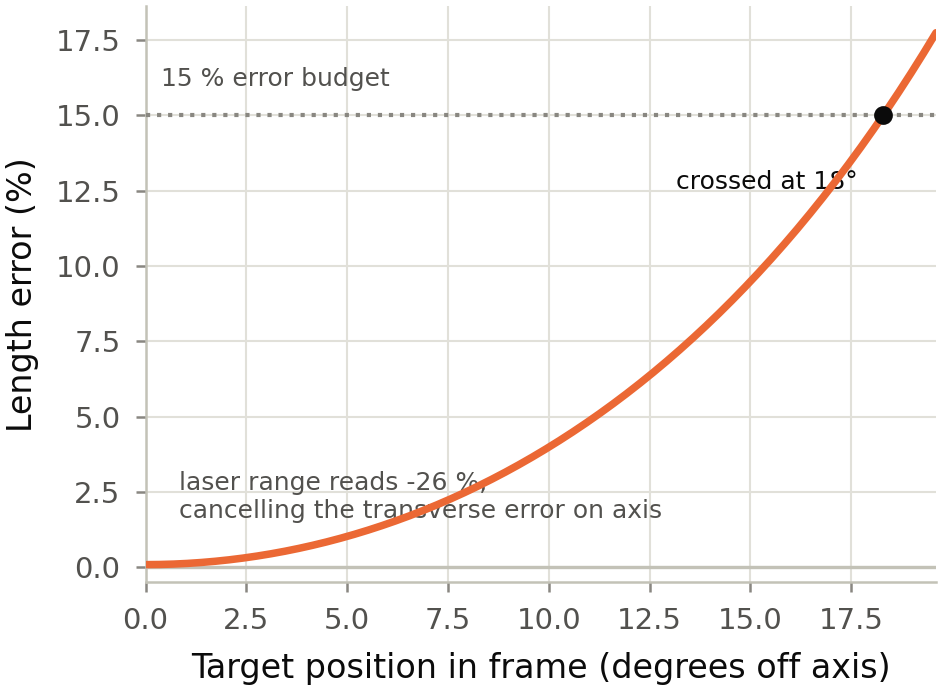
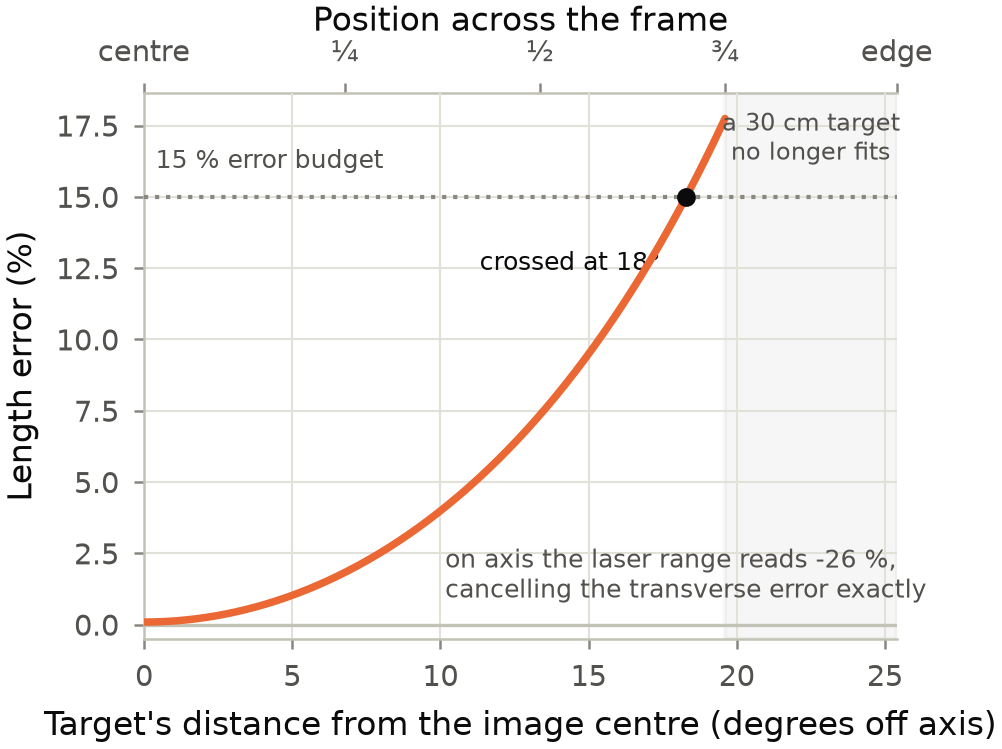
Figure 9: say what "degrees off axis" means
Chris asked what the abscissa meant, which is the answer: it was not readable.

It is the target's POSITION IN THE PICTURE -- the angle at the camera between
the optical axis and the target's centre -- and not its pose. Section 4.4's
figure is also in degrees and means the opposite thing, the fish's angle to the
image plane, and the two sections sit next to each other. They are also
physically independent: a fish held perfectly broadside in the corner of the
frame has 0 deg of pose and 20 deg of frame position, and an uncorrected port
would read it +17.7 % long while section 4.4's curve says it should read zero.

  - the bottom axis is relabelled "Target's distance from the image centre"
  - a second axis on top says the same thing in picture terms: centre, 1/4,
    1/2, 3/4, edge
  - the x range now runs to the frame edge at 25.4 deg with the last stretch
    shaded, because the curve stops at 19.6 deg only because a 30 cm target
    stops fitting -- the frame goes further, so the plotted maximum is not the
    worst the port can do, and the old axis quietly implied it was

`flat_port_cost` returns `half_frame_m` and `depth_m` to drive that, pinned by
a test, since without the frame's own half-width nobody downstream can tell a
position axis from a pose axis.

Also fixed two annotations the curve ran straight through -- the range callout
and "crossed at 18 deg" -- which I noticed when we first read this figure and
[…]

diff --git a/fishsense_imwut/pubfig.py b/fishsense_imwut/pubfig.py
@@ -917,7 +917,9 @@ def fig_flat_port_cost(
     length_pct_error: Sequence[float],
     range_pct_error: float | None = None,
     budget_pct: float = 15.0,
-    figsize: tuple[float, float] = (COL_WIDTH, 2.5),
+    half_frame_m: float | None = None,
+    depth_m: float | None = None,
+    figsize: tuple[float, float] = (COL_WIDTH, 2.7),
 ) -> plt.Figure:
     """Length error against field position with no refraction correction.
 
@@ -930,6 +932,14 @@ def fig_flat_port_cost(
     be averaged away and why it is easy to miss on axis.
 
     `range_pct_error` annotates the laser-range error behind the cancellation.
+
+    **The x axis is WHERE IN THE PICTURE the target sits, not how it is posed.**
+    Section 4.4's figure is also in degrees and means the opposite thing -- the
+    fish's angle to the image plane -- and the two are independent: a fish held
+    perfectly broadside in the corner of the frame has 0 deg of pose and 20 deg
+    of frame position, and an uncorrected port would read it +17.7 % long. Pass
+    `half_frame_m` and `depth_m` (both returned by `refraction.flat_port_cost`)
+    to get the second axis that says this in picture terms, centre to edge.
     """
     x = np.asarray(field_angle_deg, dtype=float)
     y = np.asarray(length_pct_error, dtype=float)
@@ -960,16 +970,44 @@ def fig_flat_port_cost(
             )
 
     if range_pct_error is not None:
+        # in the clear block BELOW the curve on the right; the curve sweeps the
+        # diagonal, so the two free corners are upper-left and lower-right and
+        # the budget callouts already own the first
         ax.annotate(
-            f"laser range reads {range_pct_error:+.0f} %,\n"
-            "cancelling the transverse error on axis",
-            xy=(x[0], y[0]), xytext=(8, 10), textcoords="offset points",
+            f"on axis the laser range reads {range_pct_error:+.0f} %,\n"
+            "cancelling the transverse error exactly",
+            xy=(0.40, 0.06), xycoords="axes fraction",
             fontsize=6, color=INK_SECONDARY, ha="left", va="bottom",
         )
 
-    ax.set_xlabel("Target position in frame (degrees off axis)")
+    ax.set_xlabel("Target's distance from the image centre (degrees off axis)")
     ax.set_ylabel("Length error (%)")
-    ax.set_xlim(x.min(), x.max())
+
+    if half_frame_m is not None and depth_m is not None:
+        edge_deg = float(np.degrees(np.arctan(half_frame_m / depth_m)))
+        # show the whole half-frame, so the reader can see the plotted range
+        # stops short of the edge -- and why
+        ax.set_xlim(x.min(), edge_deg)
+        ax.axvspan(x.max(), edge_deg, color=INK_MUTED, alpha=0.07, zorder=0)
+        ax.annotate("a 30 cm target\nno longer fits",
+                    xy=(0.5 * (x.max() + edge_deg), ax.get_ylim()[1]),
+                    xytext=(0, -4), textcoords="offset points", fontsize=5.8,
+                    color=INK_SECONDARY, ha="center", va="top", zorder=5)
+
+        def _to_frac(deg):
+            return depth_m * np.tan(np.radians(deg)) / half_frame_m
+
+        def _to_deg(frac):
+            return np.degrees(np.arctan(np.asarray(frac) * half_frame_m / depth_m))
+
+        top = ax.secondary_xaxis("top", functions=(_to_frac, _to_deg))
+        top.set_xticks([0.0, 0.25, 0.5, 0.75, 1.0])
+        top.set_xticklabels(["centre", "\u00bc", "\u00bd", "\u00be", "edge"])
+        top.set_xlabel("Position across the frame", labelpad=2)
+        top.tick_params(length=2.5, width=0.6)
+    else:
+        ax.set_xlim(x.min(), x.max())
+
     ax.set_ylim(bottom=min(0.0, float(np.min(y))) - 0.5)
     ax.margins(x=0)
     fig.tight_layout()

diff --git a/tests/test_refraction.py b/tests/test_refraction.py
@@ -463,3 +463,30 @@ def test_two_pane_stack_does_not_move_the_headline():
     assert max(edges) == pytest.approx(17.7, abs=0.1)
     assert min(crossings) == pytest.approx(18.3, abs=0.1)
     assert max(crossings) == pytest.approx(18.6, abs=0.1)
+
+
+def test_flat_port_cost_reports_the_frame_it_is_measured_against():
+    """The x axis of Figure 9 is a position in the picture, not a pose, and
+    without the frame's own half-width nobody can tell which.
+
+    Section 4.4's figure is also in degrees and means the fish's angle to the
+    image plane -- the opposite quantity. These two keys are what let the figure
+    carry a second axis reading centre-to-edge, so they are pinned rather than
+    left as an incidental part of the return value.
+    """
+    r = flat_port_cost()
+    assert r["depth_m"] == pytest.approx(2.0)
+    assert r["half_frame_m"] == pytest.approx(0.950, abs=0.005)
+
+    edge_deg = np.degrees(np.arctan(r["half_frame_m"] / r["depth_m"]))
+    assert edge_deg == pytest.approx(25.4, abs=0.1)
+
+    # the plotted span stops short of the frame edge: past three quarters of the
+    # half-width a 300 mm target no longer fits, so the curve is not the worst case
+    assert r["field_angle_deg"][-1] == pytest.approx(19.6, abs=0.1)
+    assert r["field_angle_deg"][-1] < edge_deg
+
+    # and the axis really is a position: its last point is MAX_FRAME_FRACTION
+    # of the half-width, in metres, not an angle of incidence
+    offset = r["depth_m"] * np.tan(np.radians(r["field_angle_deg"][-1]))
+    assert offset / r["half_frame_m"] == pytest.approx(0.75, abs=0.01)

diff --git a/fishsense_imwut/refraction.py b/fishsense_imwut/refraction.py
@@ -363,4 +363,11 @@ def flat_port_cost(
         length_pct_error=100 * (measured - fish_length_m) / fish_length_m,
         range_pct_error=float(100 * (measured_depth - depth_m) / depth_m),
         d0_star=float(d0_star),
+        # the frame's own half-width at this range, so a caller can say where in
+        # the PICTURE a given field angle falls. Without it "19.6 degrees off
+        # axis" is unreadable: the figure's x axis is the target's position in
+        # frame, not its pose, and the two are easy to confuse (section 4.4's
+        # figure is in degrees too, and means the opposite thing).
+        half_frame_m=float(half_frame),
+        depth_m=float(depth_m),
     )

diff --git a/PAPER.md b/PAPER.md
@@ -739,12 +739,17 @@ caught any of this in the field.
   the question is whether the units differ and the answer is no. Kept for the record rather
   than the paper, alongside Figures 5, 6 and 7.
 - **Figure 9** *(§4.5)* —
-  Length error against position in the frame with no refraction correction,
-  simulated for this camera at 2 m against a 300 mm target. Ignoring the water's index
-  expands the scene transversely by $n_w$ and shortens the laser range by $1/n_w$; on the
-  optical axis these
+  Length error against **where in the frame the target sits** with no refraction
+  correction, simulated for this camera at 2 m against a 300 mm target. **The abscissa is
+  position, not pose** — Figure 8's is also in degrees and means the opposite thing, so the
+  upper axis repeats it in picture terms, centre of frame through to edge. The two are
+  independent: a fish held perfectly broadside in the corner has 0° of pose and 20° of
+  frame position, and would read +17.7 % long. Ignoring the water's index expands the scene
+  transversely by $n_w$ and shortens the laser range by $1/n_w$; on the optical axis these
   cancel to +0.1 %, so the error appears only off axis and cannot be averaged away. Dotted:
-  the 15 % budget, crossed at 18°.
+  the 15 % budget, crossed at 18° — seven tenths of the way out. The plotted range stops at
+  three quarters of the half-frame (19.6°) because past it a 300 mm target no longer fits;
+  the frame itself reaches 25.4°, so the curve does not show the worst the port can do.
 - **Figure 11** — Within-individual repeatability, wild fish against posed models. Each
   point is one group: one wild individual (≥ 3 frames), or one (session, target) cell in
   the pool cohort. Bar: the median, with its bootstrap interval. This is the only §4.6
